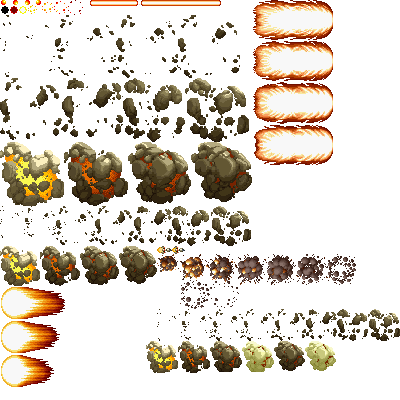
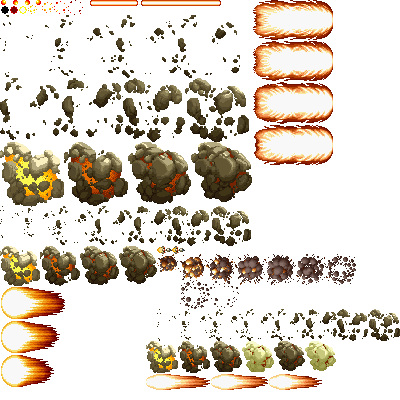
Adding bar guardian shots

Changed region(s): [[0.36, 0.93, 0.81, 0.99]]

diff --git a/LastResort/Enemy_Bar_Guardian.cpp b/LastResort/Enemy_Bar_Guardian.cpp
@@ -145,6 +145,39 @@ void Enemy_BarGuardian::Move()
 
 
 	//Shoot
+	if(shotCounter >= 120)
+	{
+		//Shoot three particles
+		App->particles->AddParticle(App->particles->barGuardShot,
+		{ (float)position.x, (float)(position.y - 30)},
+		{ -3, 0 },
+			App->particles->particlesTx,
+			COLLIDER_ENEMY_SHOT,
+			0,
+			PARTICLE_FIREBALL);
+
+		App->particles->AddParticle(App->particles->barGuardShot,
+		{ (float)position.x, (float)position.y },
+		{ -3, 0 },
+			App->particles->particlesTx,
+			COLLIDER_ENEMY_SHOT,
+			0,
+			PARTICLE_FIREBALL);
+
+		App->particles->AddParticle(App->particles->barGuardShot,
+		{ (float)position.x, (float)(position.y + 30)},
+		{ -3, 0 },
+			App->particles->particlesTx,
+			COLLIDER_ENEMY_SHOT,
+			0,
+			PARTICLE_FIREBALL);
+
+		shotCounter = 0;
+	}
+	else
+	{
+		shotCounter++;
+	}
 }
 
 void Enemy_BarGuardian::Draw(SDL_Texture* sprites)

diff --git a/LastResort/ModuleParticles.cpp b/LastResort/ModuleParticles.cpp
@@ -235,7 +235,7 @@ void ModuleParticles::OnCollision(Collider* c1, Collider* c2)
 
 //Each new particle has to initializate:
 //- Push backs for its animation
-//- Render layer. 0 = behind the ship, 1 = in front of the ship. Is 1 by default
+//- Render layer. 0 = behind the ship, 1 = in front of the ship. Is 1 by default.
 void ModuleParticles::InitParticleValues()
 {
 	//Player----------------------------------------------------------------------------//
@@ -533,4 +533,11 @@ void ModuleParticles::InitParticleValues()
 
 	indoorLaser.anim.PushBack({ 141,0,80,6 });
 	indoorLaser.life = 5000;
+
+	barGuardShot.anim.PushBack({ 146, 374, 64, 16 });
+	barGuardShot.anim.PushBack({ 211, 374, 57, 16 });
+	barGuardShot.anim.PushBack({ 269, 374, 53, 16 });
+	barGuardShot.anim.speed = 0.25;
+	barGuardShot.anim.loop = true;
+	barGuardShot.life = 10000;
 }

diff --git a/LastResort/Particle_Fireball.cpp b/LastResort/Particle_Fireball.cpp
@@ -10,7 +10,9 @@ Particle_Fireball::Particle_Fireball() : Particle()
 
 Particle_Fireball::Particle_Fireball(Particle& p, fPoint position, fPoint speed, Uint32 delay, COLLIDER_TYPE colType, SDL_Texture* tex) : Particle(p, position, speed, delay, colType, tex)
 {
-	collider->SetMeasurements(46, 26);
+	currentFrame = anim.GetCurrentFrame();
+
+	collider->SetMeasurements((int)(0.70 * currentFrame.w), (int)(0.80* currentFrame.h));
 }
 
 void Particle_Fireball::Move()

diff --git a/LastResort/ModuleParticles.h b/LastResort/ModuleParticles.h
@@ -115,6 +115,7 @@ public:
 	Particle Missile;
 	Particle MissileExplosion;
 	Particle indoorLaser;
+	Particle barGuardShot;
 
 	//- OTHER
 	iPoint VectorMiddleBossShots;

diff --git a/LastResort/Enemy_Bar_Guardian.h b/LastResort/Enemy_Bar_Guardian.h
@@ -44,6 +44,7 @@ private:
 	int eyeCounter = 0;
 	iPoint topBarPos;
 	iPoint botBarPos;
+	int shotCounter = 0;
 };
 
 #endif // __ENEMY_BAR_GUARDIAN_H__
